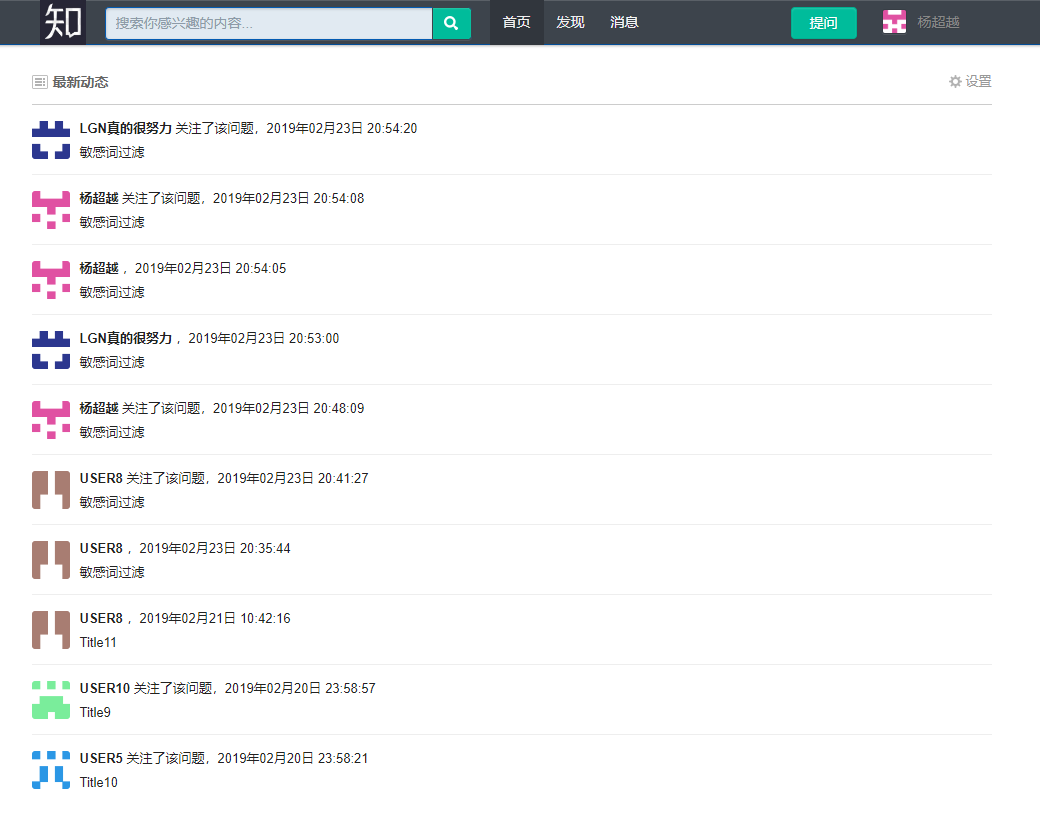
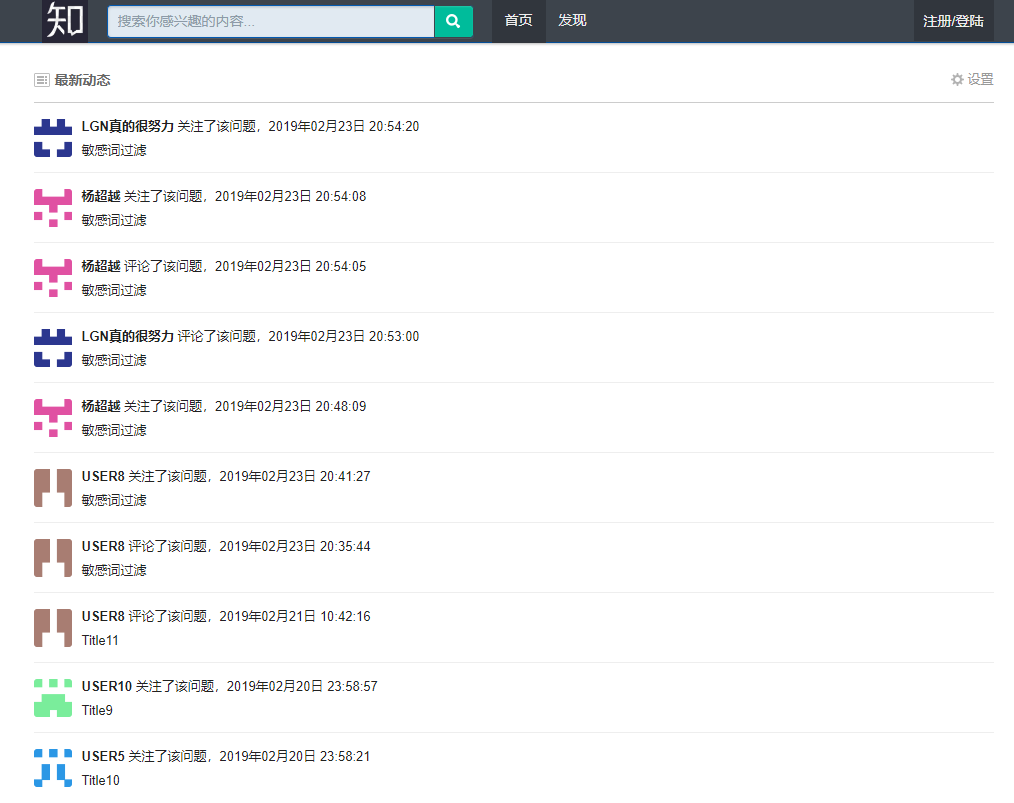
1

diff --git a/src/main/resources/templates/feeds.html b/src/main/resources/templates/feeds.html
@@ -243,7 +243,7 @@
                                         <div class="zm-item-answer-author-info">
                                             <a th:text="${vo.dataJSON.userName}" th:href="'/user/'+${vo.dataJSON.userId}"
                                                class="author-link" data-tip="p$b$amuro1230" target="_blank" href=""></a>
-                                            [['，'+${#dates.format(vo.createdDate,'yyyy年MM月dd日
+                                            [['评论了该问题，'+${#dates.format(vo.createdDate,'yyyy年MM月dd日
                                             HH:mm:ss')}]]
                                         </div>
                                         <!--<div class="zm-item-vote-info" data-votecount="4168" data-za-module="VoteInfo">-->
